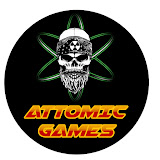
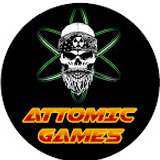
fix atttomic image

diff --git a/assets/css/style.css b/assets/css/style.css
@@ -3036,7 +3036,7 @@ footer {
   height: 180px;
   object-fit: cover;
   border-radius: 50%;
-  border: 2px solid red; /* Borda padrão */
+  border: 2px solid #cf1d3f; /* Borda padrão */
   transition: transform 0.3s ease, box-shadow 0.3s ease, border-width 0.3s ease;
 }
 
@@ -3053,14 +3053,14 @@ footer {
 .channel-slide:has(:hover) img {
   transform: scale(1.2);
   border-width: 3px;
-  box-shadow: 0 0 12px red;
+  box-shadow: 0 0 12px #cf1d3f;
   position: relative;
   z-index: 10; /* Eleva a imagem para evitar cortes */
 }
 
 .channel-slide:hover p, 
 .channel-slide:has(:hover) p {
-  text-shadow: 0 0 8px red;
+  text-shadow: 0 0 8px #cf1d3f;
 }
 
 /* 📱 Ajuste responsivo */
@@ -3089,7 +3089,7 @@ footer {
 .channel-slide:has(:hover) img {
   transform: scale(1.2);
   border-width: 3px;
-  box-shadow: 0 0 16px red; /* Glow mais intenso */
+  box-shadow: 0 0 16px #cf1d3f; /* Glow mais intenso */
   position: relative;
   z-index: 10;
 }
@@ -3097,7 +3097,7 @@ footer {
 /* 🛠 Faz o título seguir a imagem no hover */
 .channel-slide:hover p, 
 .channel-slide:has(:hover) p {
-  text-shadow: 0 0 10px red;
+  text-shadow: 0 0 10px #cf1d3f;
   transform: scale(1.1) translateY(8px); /* Aumenta levemente e desce junto com a imagem */
 }
 
@@ -3112,6 +3112,6 @@ footer {
 /* 🔥 Agora o título acompanha a imagem de forma gradual */
 .channel-slide:hover p, 
 .channel-slide:has(:hover) p {
-  text-shadow: 0 0 10px red;
+  text-shadow: 0 0 10px #cf1d3f;
   transform: scale(1.08) translateY(4px); /* 🛠 Movimentação mais sutil e fluida */
 }
